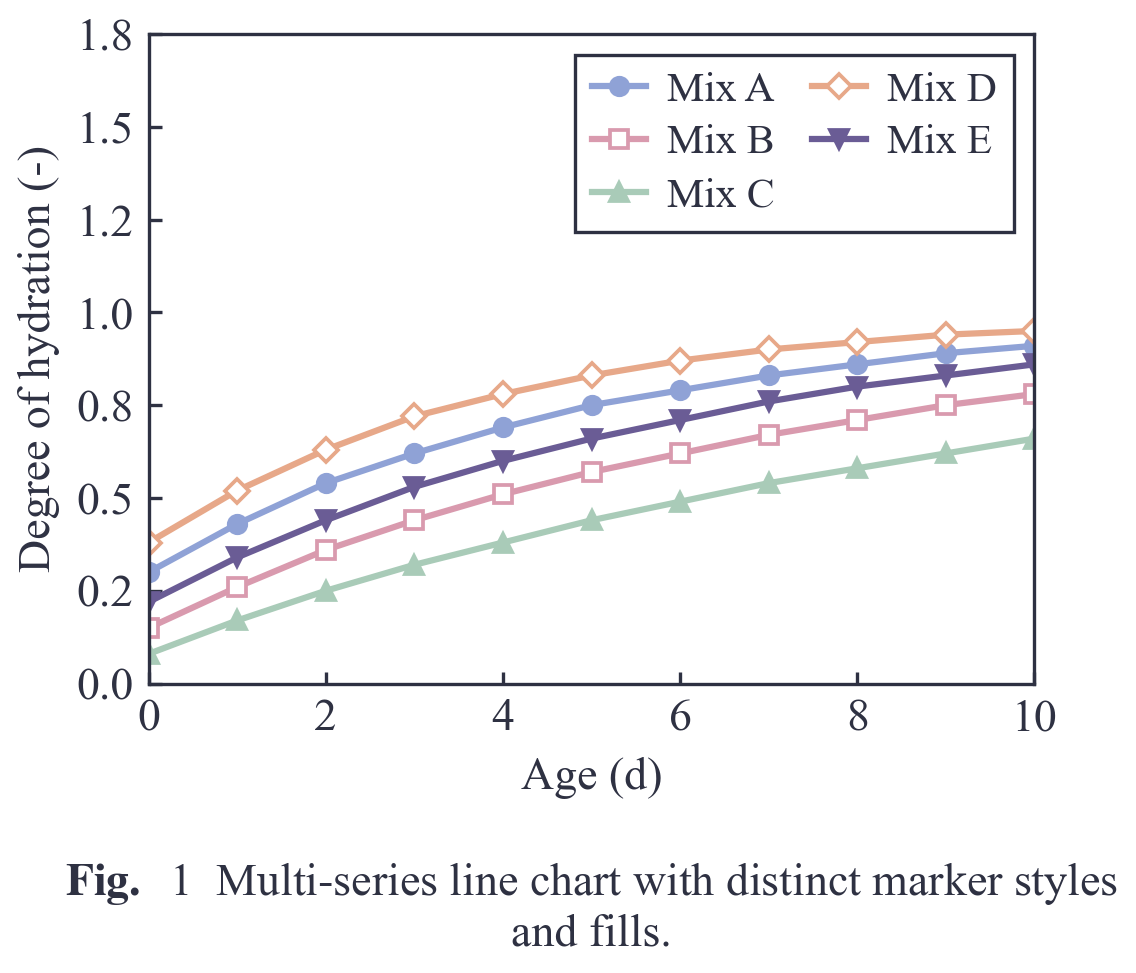
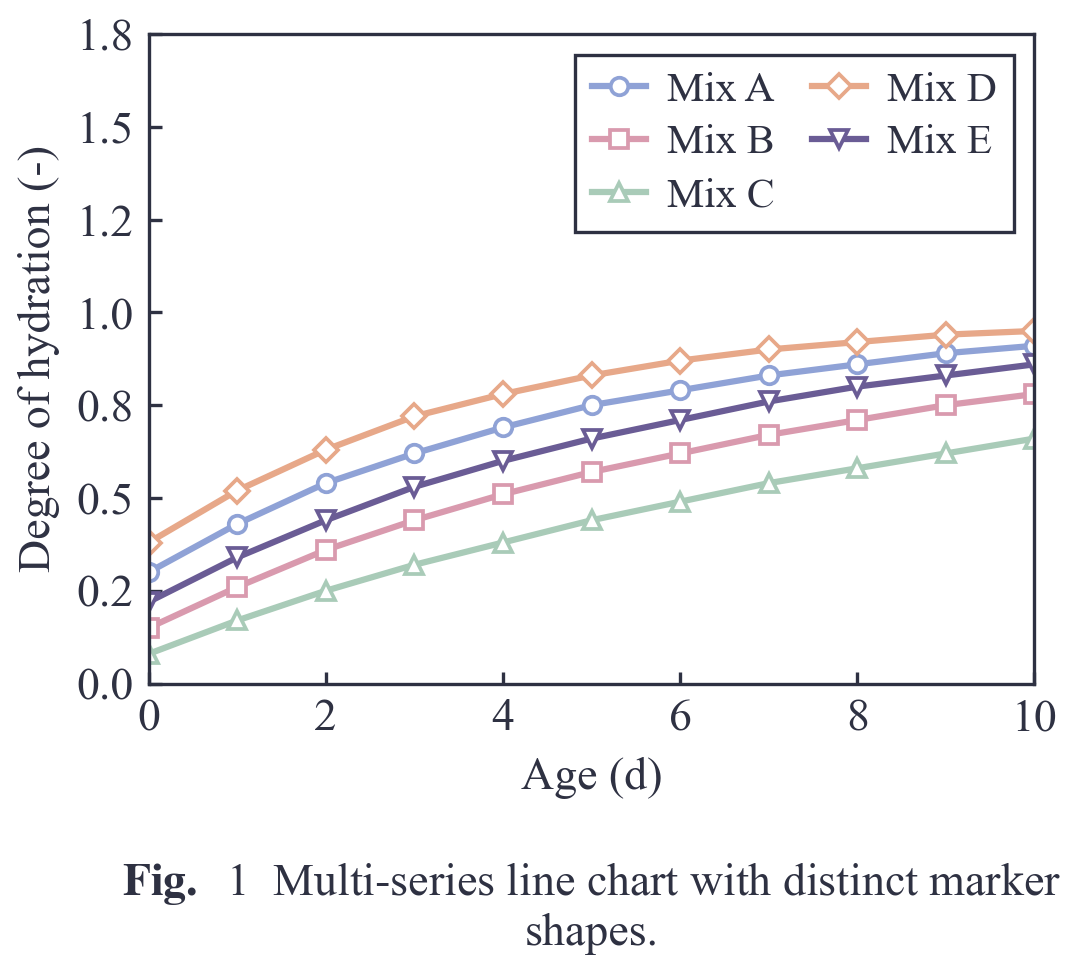
line_markers: white-filled markers only, shapes carry the series
All five markers now use a white fill with a coloured 0.9 pt edge, so only the
shape (circle, square, triangle, diamond, down-triangle) distinguishes a series
and the figure reads in black-and-white. Defaults confirmed from the variant
review: marker size 4.2 pt, line width 1.5 pt, alpha 1.0. Docs and previews
updated.

diff --git a/examples/gallery.py b/examples/gallery.py
@@ -58,33 +58,32 @@ def _kde(x, grid, bw=None):
 # --------------------------------------------------------------------------
 # line / marker family (shown first)
 # --------------------------------------------------------------------------
-@figure("line_markers", "多曲线点线图（不同点样式与填充）", "line",
-        "一张图叠放五条测量曲线，每条曲线的标记形状和填充方式都不同，"
-        "即使黑白打印也能靠点形和实心/空心区分。",
-        'for name, key, mk, filled, vals in series:\n'
+@figure("line_markers", "多曲线点线图（不同点样式）", "line",
+        "一张图叠放五条测量曲线，每条曲线的标记形状都不同、统一白色填充，"
+        "即使黑白打印也能靠点形区分。",
+        'for name, key, mk, vals in series:\n'
         '    ax.plot(x, vals, "-", marker=mk, color=PALETTE[key], lw=1.5,\n'
-        '            mfc=PALETTE[key] if filled else "white",\n'
-        '            mec=PALETTE[key], mew=0.9, ms=4.2, label=name)')
+        '            mfc="white", mec=PALETTE[key], mew=0.9, ms=4.2, label=name)')
 def fig_line_markers():
     fig, (ax,) = create_subplots(figsize=WXL_FIGSIZE["single"])
     x = np.linspace(0, 10, 11)
-    # (label, palette key, marker, solid fill?, values)
+    # (label, palette key, marker, values) - every marker is white-filled, so
+    # only the shape carries the series identity
     series = [
-        ("Mix A", "primary", "o", True,
+        ("Mix A", "primary", "o",
          [0.30, 0.43, 0.54, 0.62, 0.69, 0.75, 0.79, 0.83, 0.86, 0.89, 0.91]),
-        ("Mix B", "contrast", "s", False,
+        ("Mix B", "contrast", "s",
          [0.15, 0.26, 0.36, 0.44, 0.51, 0.57, 0.62, 0.67, 0.71, 0.75, 0.78]),
-        ("Mix C", "improve", "^", True,
+        ("Mix C", "improve", "^",
          [0.08, 0.17, 0.25, 0.32, 0.38, 0.44, 0.49, 0.54, 0.58, 0.62, 0.66]),
-        ("Mix D", "accent", "D", False,
+        ("Mix D", "accent", "D",
          [0.38, 0.52, 0.63, 0.72, 0.78, 0.83, 0.87, 0.90, 0.92, 0.94, 0.95]),
-        ("Mix E", "secondary", "v", True,
+        ("Mix E", "secondary", "v",
          [0.22, 0.34, 0.44, 0.53, 0.60, 0.66, 0.71, 0.76, 0.80, 0.83, 0.86]),
     ]
-    for name, key, mk, filled, vals in series:
+    for name, key, mk, vals in series:
         ax.plot(x, vals, "-", marker=mk, color=P[key], lw=1.5, ms=4.2,
-                mfc=P[key] if filled else "white", mec=P[key], mew=0.9,
-                label=name)
+                mfc="white", mec=P[key], mew=0.9, label=name)
     ax.set_xlabel("Age (d)")
     ax.set_ylabel("Degree of hydration (-)")
     ax.set_xlim(0, 10)
@@ -92,7 +91,7 @@ def fig_line_markers():
     ax.set_ylim(0, 1.55)
     framed_legend(ax, loc="upper left", ncol=2, columnspacing=0.9,
                   handlelength=1.3, handletextpad=0.5, labelspacing=0.35)
-    add_caption_below(fig, r"$\mathbf{Fig.}$  1  Multi-series line chart with distinct marker styles and fills.")
+    add_caption_below(fig, r"$\mathbf{Fig.}$  1  Multi-series line chart with distinct marker shapes.")
     return fig
 
 

diff --git a/README.md b/README.md
@@ -167,7 +167,7 @@ python "<skill-dir>/examples/word_report.py" --out ./wxl_report
 ## Chart types (21)
 
 Bar: grouped with error bars, stacked, horizontal.
-Line: multi-curve marker chart (distinct marker style and fill per series),
+Line: multi-curve marker chart (one marker shape per series, all white-filled),
 multi-series trend, trend + uncertainty band, stacked area.
 Relationship: scatter + fit, bubble, bidirectional error bars.
 Distribution: box, violin, histogram + KDE, ECDF, strip + mean.
@@ -197,7 +197,7 @@ layouts, `multi_panel` and `multi_panel_1x3`, keep their full width).
 |---|---|---|
 | <img src="preview/line_trend.png" width="300"> | <img src="preview/line_band.png" width="300"> | <img src="preview/stacked_area.png" width="300"> |
 
-| **Multi-curve marker chart** — five curves, each with its own marker shape and fill |
+| **Multi-curve marker chart** — five curves, one white-filled marker shape each |
 |---|
 | <img src="preview/line_markers.png" width="420"> |
 
@@ -277,8 +277,8 @@ accepted by the audit for backward compatibility.
 
 | Attribute | Options |
 |---|---|
-| Markers | open circle (default, white fill), square, triangle, diamond, down-triangle, or none for dense data |
-| Marker fill | solid colour, hollow white, or half-filled (`fillstyle`) — vary it per series so a black-and-white print still separates them |
+| Markers | open circle (default), square, triangle, diamond, down-triangle, or none for dense data |
+| Marker fill | white fill with a coloured edge, so only the shape carries the series identity and the figure survives a black-and-white print |
 | Line width | 1.5 pt (default), 1.0 pt for many series, 2.0 pt for the key curve |
 | Dash | solid (default) for the main series; dashed for a reference / baseline |
 | Marker frequency | every point (default), every 2nd–5th for dense data |

diff --git a/references/demos.md b/references/demos.md
@@ -21,17 +21,19 @@ below gives the figure id, the width preset used, and the core call to copy.
 
 | id | Chart | Width | Core call |
 |---|---|---|---|
-| `line_markers` | Multi-curve marker chart: one marker shape and fill per series | double | `ax.plot(x, y, "-", marker=mk, mfc=key if solid else "white", mec=key)` |
+| `line_markers` | Multi-curve marker chart: one white-filled marker shape per series | double | `ax.plot(x, y, "-", marker=mk, mfc="white", mec=key, mew=0.9, ms=4.2)` |
 | `line_trend` | Multi-series trend with markers | double | `ax.plot(x, y, "-o", mfc="white", mew=0.9)` |
 | `line_band` | Trend with uncertainty band | double | `ax.fill_between(x, y-sd, y+sd, alpha=0.35)` |
 | `stacked_area` | Stacked area | double | `ax.stackplot(x, *series, edgecolor=WXL_INK)` |
 
 `line_markers` is the type to reach for when several curves share one axes: give
 each series a distinct marker shape (circle, square, triangle, diamond,
-down-triangle) and a distinct fill (solid colour, hollow white, or half-filled
-via `fillstyle`), so the curves stay separable even in a black-and-white print.
-Keep the legend to two columns and leave headroom on the y-axis — a five-entry
-legend is wider than it looks inside the 75 × 55 mm single-column frame.
+down-triangle) and keep every marker white-filled, so the shape alone carries the
+series identity and the figure stays readable in a black-and-white print. Defaults
+that were tuned and agreed: marker size 4.2 pt, line width 1.5 pt, alpha 1.0 —
+below 0.8 alpha the overlapping curves bleed into each other and print grey. Keep
+the legend to two columns and leave headroom on the y-axis: a five-entry legend is
+wider than it looks inside the 75 × 55 mm single-column frame.
 
 ## Relationship family
 
